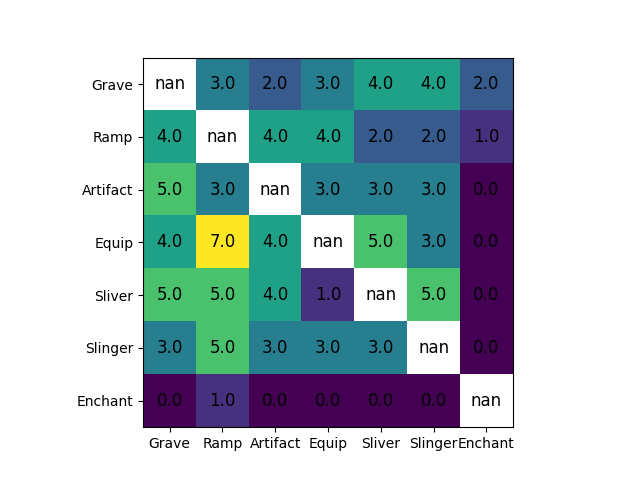
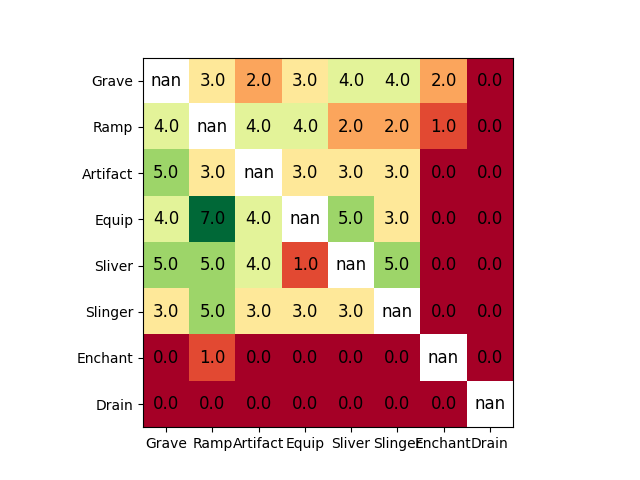
Add drain deck. Fix w/l calc change default cmap

diff --git a/duelstats/main.py b/duelstats/main.py
@@ -9,7 +9,7 @@ def main():
     parser.add_argument("--csv_file", "-c", type=str, help="Path to the CSV file with duel data. Filename is equal to the output dir and file prefix", required=True)
     parser.add_argument("--min_matchup_threshold", type=int, default=3, help="At least X specific deck vs deck duels need to exist before specific matchup is calculated")
     parser.add_argument("--min_evaluation_threshold", type=int, default=3, help="At least X specific matchups have been calculated before global win/loss is calculated.")
-    parser.add_argument("--cmap", default='viridis', help='The colormap for the plots',)
+    parser.add_argument("--cmap", default='RdYlGn', help='The colormap for the plots',)
 
 
     args = parser.parse_args()

diff --git a/duelstats/core/calculations.py b/duelstats/core/calculations.py
@@ -65,11 +65,11 @@ class DSCalc(DuelStats):
         for idx in range(win_loss_percentages.shape[0]):
             row = win_loss_percentages[idx, :]
             # Check if the row is not entirely NaN to avoid RuntimeWarning.
+
             if not np.all(np.isnan(row)):
                 win_loss_means[idx] = np.nanmean(row)
-        else:
-            win_loss_means[idx] = np.nan
-
+            else:
+                win_loss_means[idx] = np.nan
         self.ds.win_loss_data = np.hstack([win_loss_means, win_loss_percentages])
 
 
